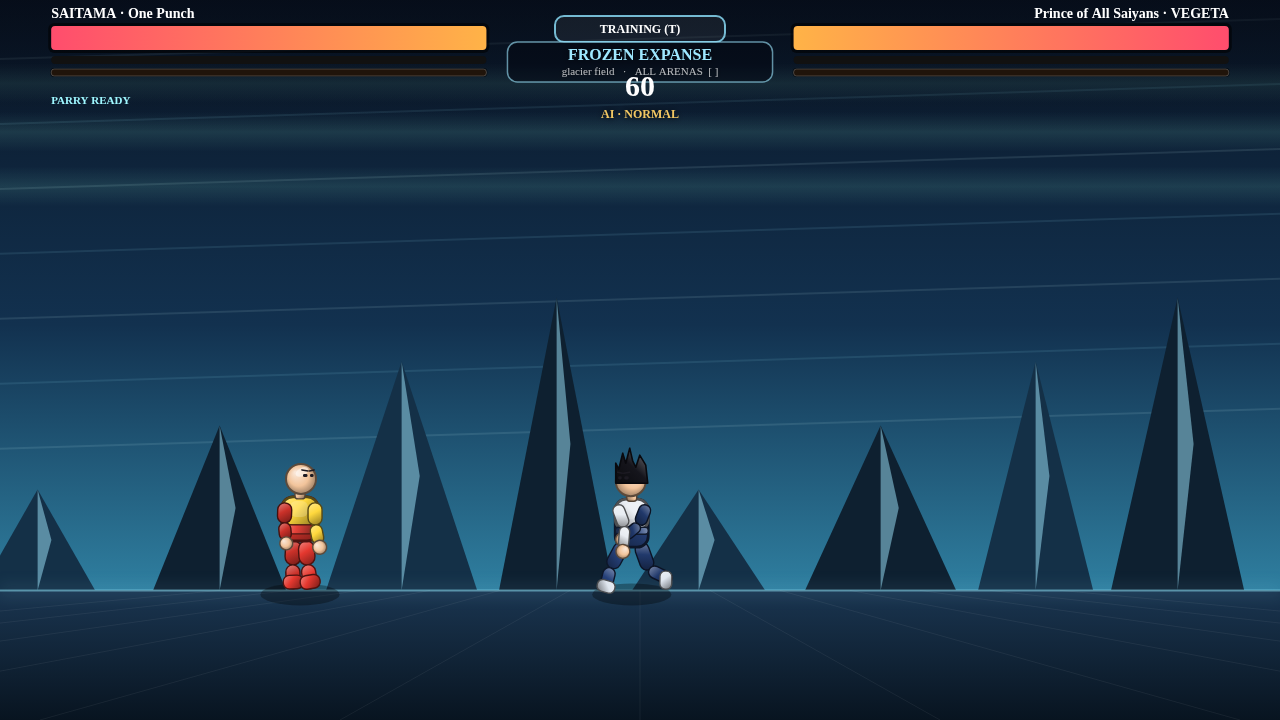
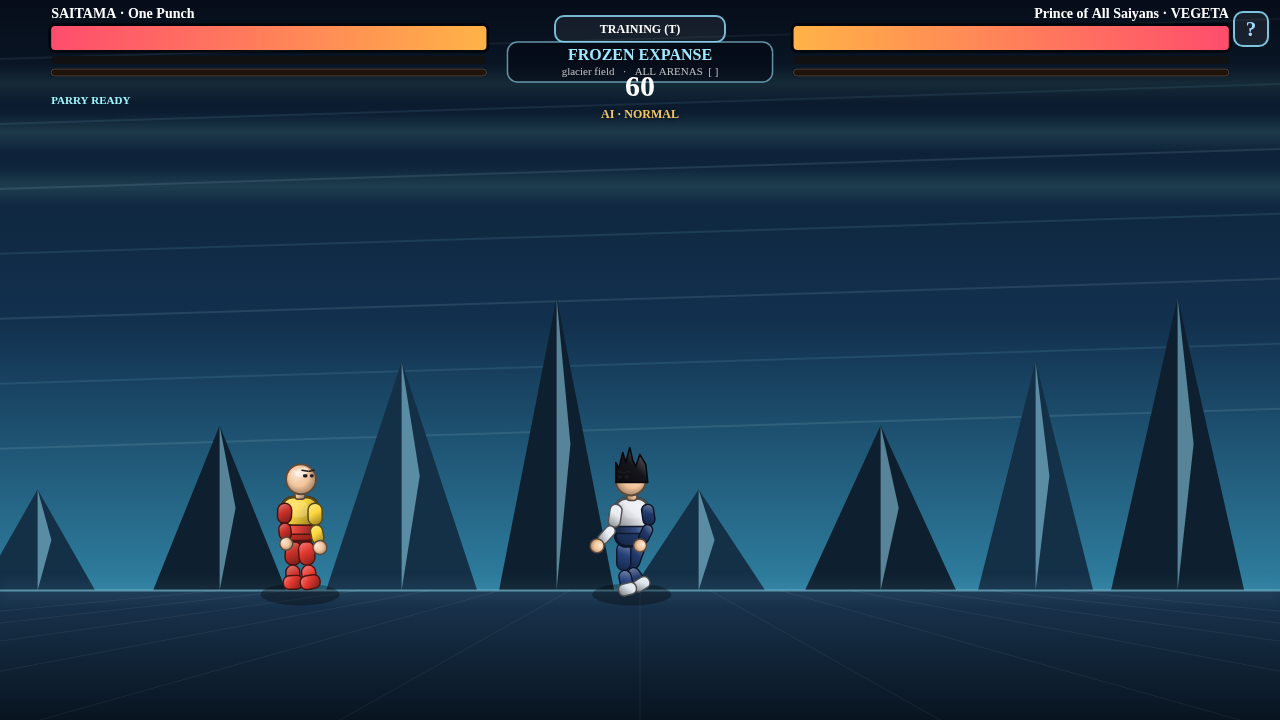
cursed-clash: add MOVE LIST page (M) - left list + animated mini-previews of combos; ? button on fight/training; M on menu/select/fight; D now cycles difficulty

diff --git a/cursed-clash.html b/cursed-clash.html
@@ -314,7 +314,7 @@ cv.addEventListener('mousedown', e=>{
   const r=cv.getBoundingClientRect();
   const x=e.clientX-r.left, y=e.clientY-r.top;
   if(screen==='fight' || (screen==='training' && !trainMenuOpen)){
-    const onTopBtn = (screen==='fight') ? inRect(x,y,menuBtnRect()) : inRect(x,y,trainMenuRect());
+    const onTopBtn = (screen==='fight') ? (inRect(x,y,menuBtnRect())||inRect(x,y,helpBtnRect())) : inRect(x,y,trainMenuRect());
     if(e.button===2){ e.preventDefault(); held.kick=true; pressInput('kick'); return; }
     if(e.button===0 && !onTopBtn){ held.punch=true; pressInput('punch'); return; }
   }
@@ -1835,6 +1835,14 @@ function drawHUD(g){
   g.restore();
 }
 function menuBtnRect(){ const w=Math.min(W*0.2,170), h=26; return {x:W/2-w/2,y:16,w,h}; }
+function drawHelpButton(g){
+  const r=helpBtnRect();
+  g.save(); g.textAlign='center';
+  g.fillStyle='rgba(255,255,255,.07)'; roundRect(g,r.x,r.y,r.w,r.h,9); g.fill();
+  g.strokeStyle='#8fe3ff'; g.lineWidth=2; g.globalAlpha=.85; roundRect(g,r.x,r.y,r.w,r.h,9); g.stroke();
+  g.globalAlpha=1; g.fillStyle='#9fd8ff'; g.font=`bold ${Math.round(r.h*0.62)}px Trebuchet MS`;
+  g.fillText('?', r.x+r.w/2, r.y+r.h*0.72); g.restore();
+}
 function diffRect(){ const w=Math.min(W*0.24,224), h=Math.min(H*0.078,50); return {x:W*0.5-12-w, y:H*0.70, w, h}; }
 function ctrlRect(){ const w=Math.min(W*0.24,224), h=Math.min(H*0.078,50); return {x:W*0.5+12, y:H*0.70, w, h}; }
 function drawSeg(g,r,items,cur,showSub){
@@ -1863,6 +1871,37 @@ const p1 = new Fighter({x:200,y:GROUND_Y(),ai:false});
 const p2 = new Fighter({x:700,y:GROUND_Y(),ai:true,dir:-1});
 let screen='menu';
 let menuT=0, selT=0, selFlash=0;
+let movesFrom='menu', movesT=0;
+// the MOVE LIST page shows animated mini previews of the trickiest moves
+const movePreviews=[
+  {label:'UPPERCUT', how:'Space + LMB',     kind:'upper', state:POSE.UPPER},
+  {label:'SLAM',     how:'LMB + RMB',       kind:'slam',  state:POSE.SLAM},
+  {label:'SWEEP',    how:'hold Ctrl + RMB', kind:'sweep', state:POSE.SWEEP},
+  {label:'PARRY',    how:'F + LMB',         kind:null,    state:POSE.PARRY},
+  {label:'HOP',      how:'F + Space',       kind:null,    state:POSE.HOP, hopBlocked:true},
+  {label:'ROLL',     how:'Space + A / D',   kind:null,    state:POSE.ROLL},
+];
+function previewState(pr,i){
+  const S={char:CHARS[0], t:movesT+i, anim:0, state:pr.state, atk:null, hitFlash:0, superT:0,
+    onGround:true, dir:1, hopBlocked:!!pr.hopBlocked, getupT:0, parrySpark:0, rolling:false, rollT:0, rollDir:1, x:0, y:0};
+  if(pr.kind){ const M=MOVES[pr.kind], tot=M.startup+M.active+M.recover;
+    S.atk=Object.assign({kind:pr.kind, t:((movesT*0.85+i*0.37)%1)*tot}, M); }
+  else if(pr.state===POSE.ROLL){ S.rolling=true; S.rollT=(1-((movesT*0.9+i*0.4)%1))*ROLL_TIME; }
+  else if(pr.state===POSE.PARRY){ S.parrySpark=(Math.sin(movesT*2.2+i)>0.6)?0.7:0; }
+  return S;
+}
+// draw a fighter the same way Fighter.draw does (incl. the trip/getup/roll transforms)
+function drawPreviewFighter(g,S){
+  g.save();
+  g.scale(S.dir||1,1);
+  if(S.tripped){ g.translate(0,-10); g.rotate(-(S.dir||1)*1.42); }
+  else if(S.rolling){ const prog=1-S.rollT/ROLL_TIME, lift=24*Math.sin(prog*Math.PI);
+    g.translate(0,-lift); g.translate(0,-54); g.rotate((S.dir||1)*(S.rollDir||1)*prog*Math.PI*2); g.scale(0.88,0.88); g.translate(0,54); }
+  paintFighter(g,S.char,S);
+  g.restore();
+}
+function openMoves(){ if(screen==='moves') return; movesFrom=(screen&&screen!=='moves')?screen:'menu'; movesT=0; screen='moves'; padEl.classList.add('hidden'); syncPad(); }
+function closeMoves(){ screen=(movesFrom&&movesFrom!=='moves')?movesFrom:'menu'; resetInput(); syncPad(); }
 let selIndex=0, rivalIndex=1;
 let fightState='intro', fightT=0, roundTime=60;
 const ROUND_TIME=60;
@@ -1909,10 +1948,10 @@ function updateTraining(dt){
   if(p2.hp>lastDummyHp){ lastDummyHp=p2.hp; }
   if(p2.hp<lastDummyHp){ const d=lastDummyHp-p2.hp; trainDispDmg+=d; trainDmgT=1.6; if(!p2.ko) trainHits++; lastDummyHp=p2.hp; }
 }
-function menuTrainRect(){
-  const w=Math.min(W*0.30,250), h=Math.min(H*0.072,48);
-  return {x:W/2-w/2, y:H*0.80, w, h};
-}
+function menuMovesRect(){ const w=Math.min(W*0.24,206), h=Math.min(H*0.072,48); return {x:W/2-w-9, y:H*0.80, w, h}; }
+function menuTrainRect(){ const w=Math.min(W*0.24,206), h=Math.min(H*0.072,48); return {x:W/2+9, y:H*0.80, w, h}; }
+function helpBtnRect(){ const s=Math.min(34,H*0.052); return {x:W-s-12,y:12,w:s,h:s}; }
+function closeRect(){ const w=Math.min(W*0.15,150), h=Math.min(H*0.062,42); return {x:W-w-16,y:16,w,h}; }
 function renderTraining(){
   ctx.save();
   const sx=(Math.random()-0.5)*shake, sy=(Math.random()-0.5)*shake;
@@ -1946,6 +1985,7 @@ function renderTraining(){
   }
   ctx.restore();
   drawTrainingHUD(ctx);
+  drawHelpButton(ctx);
   if(flashScreen>0){ ctx.fillStyle=`rgba(255,255,255,${flashScreen*0.8})`; ctx.fillRect(0,0,W,H); }
   if(trainMenuOpen) renderTrainMenu(ctx);
 }
@@ -2070,7 +2110,9 @@ function goSelect(){ screen='select'; selT=0; padEl.classList.add('hidden'); cle
 function randomRival(){ let r=selIndex,g=0; while(r===selIndex && g++<20) r=Math.floor(Math.random()*CHARS.length); return r; }
 
 function onKeyPress(code){
-  if((screen==='menu'||screen==='select') && code==='KeyM') setDiff(diffIndex+1);
+  if(screen==='moves'){ if(code==='KeyM'||code==='Escape'||code==='Backspace'){ closeMoves(); } return; }
+  if((screen==='menu'||screen==='select') && code==='KeyM'){ openMoves(); return; }
+  if((screen==='menu'||screen==='select') && code==='KeyD'){ setDiff(diffIndex+1); return; }
   if((screen==='menu'||screen==='select') && code==='KeyC') toggleCtrl();
   if(code==='BracketLeft'||code==='Comma'){ setArena(arenaIndex-1); arenaOverride=arenaIndex; }
   if(code==='BracketRight'||code==='Period'){ setArena(arenaIndex+1); arenaOverride=arenaIndex; }
@@ -2082,10 +2124,11 @@ function onKeyPress(code){
     if(code==='KeyT'){ openTraining(); return; }
     if(go.includes(code)){ rivalIndex=randomRival(); startFight(); }
   }
-  else if(screen==='fight'){ if(code==='Escape') goSelect(); if(code==='KeyT') openTraining(); }
+  else if(screen==='fight'){ if(code==='Escape') goSelect(); if(code==='KeyT') openTraining(); if(code==='KeyM') openMoves(); }
   else if(screen==='training'){
     if(code==='Escape'){ if(trainMenuOpen) setTrainMenuOpen(false); else goMenu(); }
     if(code==='KeyT') setTrainMenuOpen(!trainMenuOpen);
+    if(code==='KeyM' && !trainMenuOpen) openMoves();
     if(code==='KeyR') trainReset();
   }
   else if(screen==='over'){
@@ -2096,7 +2139,8 @@ function onKeyPress(code){
 }
 function onPointer(x,y){
   if(!x&&!y) { /* noop */ }
-  if(screen==='menu'){ if(inRect(x,y,ctrlRect())){ toggleCtrl(); return; } if(inRect(x,y,diffRect())){ setDiff(diffIndex+1); return; } if(inRect(x,y,menuTrainRect())){ openTraining(); return; } goSelect(); return; }
+  if(screen==='moves'){ if(inRect(x,y,closeRect())){ closeMoves(); return; } return; }
+  if(screen==='menu'){ if(inRect(x,y,helpBtnRect())){ openMoves(); return; } if(inRect(x,y,ctrlRect())){ toggleCtrl(); return; } if(inRect(x,y,diffRect())){ setDiff(diffIndex+1); return; } if(inRect(x,y,menuMovesRect())){ openMoves(); return; } if(inRect(x,y,menuTrainRect())){ openTraining(); return; } goSelect(); return; }
   if(screen==='select'){
     if(inRect(x,y,diffPillRect())){ setDiff(diffIndex+1); return; }
     if(inRect(x,y,arenaPillRect())){ setArena(arenaIndex+1); arenaOverride=arenaIndex; return; }
@@ -2111,7 +2155,7 @@ function onPointer(x,y){
     if(inRect(x,y,confirmRect())){ rivalIndex=randomRival(); startFight(); return; }
     return;
   }
-  if(screen==='fight'){ if(inRect(x,y,menuBtnRect())){ goSelect(); return; } return; }
+  if(screen==='fight'){ if(inRect(x,y,helpBtnRect())){ openMoves(); return; } if(inRect(x,y,menuBtnRect())){ goSelect(); return; } return; }
   if(screen==='training'){
     if(trainMenuOpen){ for(const b of trainBtns){ if(inRect(x,y,b)){ b.fn(); return; } } return; }
     for(const b of trainButtons){ if(inRect(x,y,b)){ b.fn(); return; } }
@@ -2164,23 +2208,30 @@ function renderMenu(g){
   g.fillText(isTouch?'TAP TO PLAY':'PRESS SPACE TO PLAY',cx,H*0.895); g.restore();
   // difficulty selector
   g.save(); g.textAlign='center'; g.fillStyle='rgba(255,255,255,.45)'; g.font='bold 11px Trebuchet MS';
-  g.fillText('DIFFICULTY'+(isTouch?'  (tap)':'  (M)'),diffRect().x+diffRect().w/2,diffRect().y-8); g.restore();
+  g.fillText('DIFFICULTY'+(isTouch?'  (tap)':'  (D)'),diffRect().x+diffRect().w/2,diffRect().y-8); g.restore();
   drawDiffSeg(g, diffRect(), true);
   // controls selector
   g.save(); g.textAlign='center'; g.fillStyle='rgba(255,255,255,.45)'; g.font='bold 11px Trebuchet MS';
   g.fillText('CONTROLS'+(isTouch?'  (tap)':'  (C)'),ctrlRect().x+ctrlRect().w/2,ctrlRect().y-8); g.restore();
   drawCtrlSeg(g, ctrlRect(), true);
-  // TRAINING button
-  const tb=menuTrainRect();
+  // MOVE LIST + TRAINING buttons
+  const mb=menuMovesRect(), tb=menuTrainRect();
   g.save();
+  const mg=g.createLinearGradient(mb.x,mb.y,mb.x,mb.y+mb.h);
+  mg.addColorStop(0,'rgba(255,120,190,.30)'); mg.addColorStop(1,'rgba(160,40,120,.30)');
+  g.fillStyle=mg; roundRect(g,mb.x,mb.y,mb.w,mb.h,10); g.fill();
+  g.strokeStyle='#ff8fd0'; g.lineWidth=2; g.shadowColor='#ff5c8a'; g.shadowBlur=14; roundRect(g,mb.x,mb.y,mb.w,mb.h,10); g.stroke();
+  g.shadowBlur=0; g.fillStyle='#fff'; g.textAlign='center'; g.font='bold 16px Trebuchet MS';
+  g.fillText(isTouch?'✦  MOVE LIST':'✦  MOVE LIST  (M)',mb.x+mb.w/2,mb.y+mb.h*0.66);
   const tg=g.createLinearGradient(tb.x,tb.y,tb.x,tb.y+tb.h);
   tg.addColorStop(0,'rgba(70,200,255,.30)'); tg.addColorStop(1,'rgba(30,120,220,.30)');
   g.fillStyle=tg; roundRect(g,tb.x,tb.y,tb.w,tb.h,10); g.fill();
   g.strokeStyle='#8fe3ff'; g.lineWidth=2; g.shadowColor='#5bc8ff'; g.shadowBlur=14; roundRect(g,tb.x,tb.y,tb.w,tb.h,10); g.stroke();
-  g.shadowBlur=0; g.fillStyle='#fff'; g.textAlign='center'; g.font='bold 17px Trebuchet MS';
+  g.shadowBlur=0; g.fillStyle='#fff'; g.font='bold 16px Trebuchet MS';
   g.fillText(isTouch?'⚔  TRAINING':'⚔  TRAINING  (T)',tb.x+tb.w/2,tb.y+tb.h*0.66); g.restore();
+  drawHelpButton(g);
   g.textAlign='center'; g.fillStyle='rgba(255,255,255,.35)'; g.font='12px Trebuchet MS';
-  g.fillText('LMB/RMB punch/kick · LMB+RMB slam · Space+LMB uppercut · Ctrl+RMB sweep · Q dash · F block (-75%) · F+LMB parry (20s) · F+Space hop · Space+A/D roll',cx,H*0.945);
+  g.fillText('LMB/RMB punch/kick · LMB+RMB slam · Space+LMB uppercut · Ctrl+RMB sweep · Q dash · F block · F+LMB parry · F+Space hop · Space+A/D roll · I special   ·   M move list',cx,H*0.945);
 }
 
 /* ============================================================
@@ -2326,6 +2377,89 @@ function drawPlayerSlot(g,x,y,w,h,ch,label,isP1,isCPU){
     g.fillText(ch.name,x+w/2,y+h+14); g.restore();
   }
 }
+function renderMoves(g){
+  const bg=g.createLinearGradient(0,0,0,H);
+  bg.addColorStop(0,'#04081a'); bg.addColorStop(.5,'#120a2e'); bg.addColorStop(1,'#2a0a26');
+  g.fillStyle=bg; g.fillRect(0,0,W,H);
+  g.save(); g.globalAlpha=.06;
+  for(let i=0;i<8;i++){ const yy=(i/7)*H; g.strokeStyle=i%2?'#5bc8ff':'#ff6bd0'; g.lineWidth=2;
+    g.beginPath(); g.moveTo(0,yy); g.lineTo(W,yy-40); g.stroke(); }
+  g.restore();
+
+  const pad=W*0.035, narrow=W<820;
+  g.save();
+  g.shadowColor='#ff4d6d'; g.shadowBlur=24; g.fillStyle='#fff';
+  g.font=`bold ${Math.min(W*0.045,30)}px Trebuchet MS`; g.textAlign='left';
+  g.fillText('MOVE LIST', pad, Math.min(H*0.098,54));
+  g.restore();
+  g.save(); g.textAlign='left'; g.fillStyle='rgba(160,210,255,.62)'; g.font='12px Trebuchet MS';
+  g.fillText('Every move + how to do it   ·   hold F = BLOCK (cuts damage 75%)', pad, Math.min(H*0.098,54)+22); g.restore();
+
+  // ── left column: single-input moves ──
+  const rx=pad, rw=narrow?W*0.45:W*0.40;
+  const rowH=narrow?Math.min(H*0.088,44):Math.min(H*0.105,52);
+  const rows=[
+    ['LMB  ·  Punch',  'quick jab — cheap and safe'],
+    ['RMB  ·  Kick',   'hits harder, a touch slower'],
+    ['Q  ·  Dash',     'lunge in, or back off'],
+    ['F  ·  Block',    'hold — damage cut 75%'],
+    ['I  ·  Special',  'your super (needs full meter)'],
+  ];
+  let y=H*0.215;
+  g.save();
+  for(const [t,d] of rows){
+    g.fillStyle='rgba(140,210,255,.08)'; roundRect(g,rx,y,rw,rowH-8,9); g.fill();
+    g.strokeStyle='rgba(140,210,255,.25)'; g.lineWidth=1.5; roundRect(g,rx,y,rw,rowH-8,9); g.stroke();
+    g.textAlign='left'; g.fillStyle='#9fd8ff'; g.font='bold 14px Trebuchet MS';
+    g.fillText(t, rx+12, y+rowH*0.42);
+    g.fillStyle='rgba(255,255,255,.6)'; g.font='11px Trebuchet MS';
+    g.fillText(d, rx+12, y+rowH*0.72);
+    y+=rowH;
+  }
+  g.fillStyle='#ffd166'; g.font='bold 12px Trebuchet MS';
+  g.fillText('COMBOS  —  press the two together (0.15s window) ▸', rx, y+2);
+  g.restore();
+
+  // ── right column: combo moves with animated previews ──
+  const px=narrow?W*0.50:W*0.49, pw=W-px-pad;
+  const cols=narrow?2:3, rowsN=Math.ceil(movePreviews.length/cols);
+  const cw=(pw-(cols-1)*12)/cols, chh=narrow?Math.min(H*0.20,140):Math.min(H*0.28,200);
+  const cy0=H*0.19;
+  for(let i=0;i<movePreviews.length;i++){
+    const pr=movePreviews[i];
+    const bx=px+(i%cols)*(cw+12), by=cy0+Math.floor(i/cols)*(chh+12);
+    g.save();
+    g.fillStyle='rgba(10,20,45,.6)'; roundRect(g,bx,by,cw,chh,11); g.fill();
+    g.strokeStyle='rgba(120,210,255,.35)'; g.lineWidth=1.5; roundRect(g,bx,by,cw,chh,11); g.stroke();
+    g.save();
+    g.beginPath(); roundRect(g,bx,by,cw,chh,11); g.clip();
+    const sc=Math.min(cw/150,(chh-74)/190)*1.12;
+    g.translate(bx+cw/2, by+chh-26); g.scale(sc,sc);
+    drawPreviewFighter(g, previewState(pr,i));
+    g.restore();
+    // label + hint strips so the text stays readable over the art
+    g.fillStyle='rgba(4,8,20,.74)';
+    g.beginPath(); g.moveTo(bx,by); g.lineTo(bx+cw,by); g.lineTo(bx+cw,by+27); g.lineTo(bx,by+27); g.closePath(); g.fill();
+    g.fillStyle='rgba(4,8,20,.74)';
+    g.beginPath(); g.moveTo(bx,by+chh-23); g.lineTo(bx+cw,by+chh-23); g.lineTo(bx+cw,by+chh); g.lineTo(bx,by+chh); g.closePath(); g.fill();
+    g.textAlign='center'; g.fillStyle='#fff'; g.font='bold 13px Trebuchet MS';
+    g.fillText(pr.label, bx+cw/2, by+18);
+    g.fillStyle='#ffd166'; g.font='bold 11px Trebuchet MS';
+    g.fillText(pr.how, bx+cw/2, by+chh-8);
+    g.restore();
+  }
+
+  g.save(); g.textAlign='center'; g.fillStyle='rgba(255,255,255,.4)'; g.font='11px Trebuchet MS';
+  g.fillText('sweep trips them (hop over: F+Space)   ·   slam breaks the guard (roll out: Space+A/D)', W/2, H-14);
+  g.restore();
+
+  const cb=closeRect();
+  g.save(); g.textAlign='center';
+  g.fillStyle='rgba(255,255,255,.08)'; roundRect(g,cb.x,cb.y,cb.w,cb.h,10); g.fill();
+  g.strokeStyle='#8fe3ff'; g.lineWidth=2; g.globalAlpha=.8; roundRect(g,cb.x,cb.y,cb.w,cb.h,10); g.stroke();
+  g.globalAlpha=1; g.fillStyle='#fff'; g.font='bold 14px Trebuchet MS';
+  g.fillText('✕  CLOSE', cb.x+cb.w/2, cb.y+cb.h*0.66); g.restore();
+}
 function wrapText(g,text,x,y,maxW,lh){
   const words=text.split(' '); let line='',yy=y;
   for(const w of words){ const test=line?line+' '+w:w;
@@ -2347,6 +2481,7 @@ function step(dt){
   arenaT+=dt;
   updateParryBtn();
   if(screen==='menu'){ menuT+=dt; return; }
+  if(screen==='moves'){ movesT+=dt; return; }
   if(screen==='select'){ selT+=dt; selFlash=Math.max(0,selFlash-dt*1.6); return; }
   if(screen==='training'){ stepInput(dt); updateTraining(dt); return; }
   fightT+=dt; updateProjectiles(dt);
@@ -2369,6 +2504,7 @@ function step(dt){
 function render(){
   ctx.clearRect(0,0,W,H);
   if(screen==='menu'){ renderMenu(ctx); return; }
+  if(screen==='moves'){ renderMoves(ctx); return; }
   if(screen==='select'){ renderSelect(ctx); return; }
   if(screen==='training'){ renderTraining(); return; }
   ctx.save();
@@ -2395,6 +2531,7 @@ function render(){
   }
   ctx.restore();
   drawHUD(ctx);
+  if(screen==='fight') drawHelpButton(ctx);
   ctx.save(); ctx.textAlign='center'; ctx.font='bold 30px Trebuchet MS';
   ctx.fillStyle=roundTime<10?'#ff4d6d':'#fff';
   ctx.fillText(Math.max(0,Math.ceil(roundTime)),W/2,96); ctx.restore();

diff --git a/testing/cc-moves-page.js b/testing/cc-moves-page.js
@@ -1,0 +1,49 @@
+// Cursed Clash — MOVE LIST page (M)
+const { chromium } = require('playwright-core');
+(async()=>{
+  const b = await chromium.launch({args:['--use-gl=swiftshader','--enable-unsafe-swiftshader']});
+  const p = await b.newPage({viewport:{width:1280,height:720}});
+  const errs=[]; p.on('pageerror',e=>errs.push('PAGEERR: '+e.message));
+  p.on('console',m=>{ if(m.type()==='error') errs.push('CONSOLE: '+m.text()); });
+  await p.goto('file://'+process.cwd()+'/cursed-clash.html');
+  await p.waitForTimeout(500);
+  const out={};
+
+  // open via M from menu
+  await p.keyboard.press('m');
+  await p.waitForTimeout(300);
+  out.openFromMenu = await p.evaluate(()=>CLASH.screen);
+  await p.screenshot({path:'testing/cc-movelist.png'});
+
+  // animated previews present + no errors during a few frames
+  await p.waitForTimeout(600);
+  await p.screenshot({path:'testing/cc-movelist2.png'});
+
+  // close via Escape -> back to menu
+  await p.keyboard.press('Escape'); await p.waitForTimeout(200);
+  out.closeToMenu = await p.evaluate(()=>CLASH.screen);
+
+  // open from fight (via ? button), then M closes back to fight
+  await p.evaluate(()=>{ CLASH.goSelect(); CLASH.setSel(0); CLASH.startFight(); });
+  await p.waitForTimeout(1400);
+  await p.keyboard.press('m'); await p.waitForTimeout(200);
+  out.openFromFight = await p.evaluate(()=>CLASH.screen);
+  await p.keyboard.press('m'); await p.waitForTimeout(200);
+  out.closeToFight = await p.evaluate(()=>CLASH.screen);
+
+  // pointer: '?' hit-test on fight -> moves ; CLOSE -> back
+  out.helpRect = await p.evaluate(()=>{ const r={x:0,y:0}; return true; });
+  await p.evaluate(()=>{ CLASH.goSelect(); CLASH.setSel(0); CLASH.startFight(); });
+  await p.waitForTimeout(1400);
+
+  // select screen: M opens
+  await p.evaluate(()=>CLASH.goSelect()); await p.waitForTimeout(150);
+  await p.keyboard.press('m'); await p.waitForTimeout(150);
+  out.openFromSelect = await p.evaluate(()=>CLASH.screen);
+  await p.keyboard.press('Escape'); await p.waitForTimeout(150);
+  out.closeBackSelect = await p.evaluate(()=>CLASH.screen);
+
+  out.errs=errs;
+  console.log(JSON.stringify(out,null,1));
+  await b.close();
+})();
